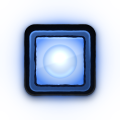
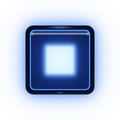
UI: botones nuevos segun las capturas de referencia [skip ci]
Claude-Session: https://claude.ai/code/session_01LmYTuHAKQSU8qhR6nNkVAi

diff --git a/UI_definitiva/generadores/button_gen_ref.py b/UI_definitiva/generadores/button_gen_ref.py
@@ -1,0 +1,75 @@
+# Botones nuevos (segun las capturas de referencia): cuadrado oscuro con marco fino y linea de luz arriba;
+# prendido: marco azul, fondo azul oscuro y centro blanco-celeste con resplandor. Salida: 120x120 (igual que antes).
+import numpy as np
+from PIL import Image
+from scipy.ndimage import gaussian_filter
+S=4; N=120
+def rr(X,Y,hw,hh,r):
+    qx=np.abs(X)-(hw-r); qy=np.abs(Y)-(hh-r)
+    return np.hypot(np.maximum(qx,0),np.maximum(qy,0))+np.minimum(np.maximum(qx,qy),0)-r
+cov=lambda sd: np.clip(0.5-sd*S,0,1)    # sd en unidades de diseno
+def draw(on):
+    n=N*S; yy,xx=np.mgrid[0:n,0:n]; X=(xx-n/2+.5)/S; Y=(yy-n/2+.5)/S
+    rng=np.random.default_rng(5 if on else 4)
+    col=np.zeros((n,n,3)); al=np.zeros((n,n))
+    def over(c,a):
+        nonlocal col,al
+        a=np.clip(a,0,1); c=np.broadcast_to(np.asarray(c,float),(n,n,3))
+        na=a+al*(1-a); col=np.where(na[...,None]>0,(c*a[...,None]+col*al[...,None]*(1-a[...,None]))/np.maximum(na[...,None],1e-6),0); al=na
+    well=rr(X,Y,34.5,34.5,8)
+    mw=cov(well)
+    # resplandor (prendido) y sombra
+    if on:
+        gl=np.clip(gaussian_filter(mw,5*S)*1.5,0,1)*0.36+np.clip(gaussian_filter(mw,13*S)*1.8,0,1)*0.30
+        over([45,115,255],gl*(1-mw))
+    else:
+        over([0,0,0],gaussian_filter(np.roll(mw,int(1.5*S),0),2.5*S)*0.55*(1-mw))
+    noise=gaussian_filter(rng.normal(0,1,(n,n)),0.5*S)*2.2+rng.normal(0,1,(n,n))*1.2
+    spk=(rng.random((n,n))>0.996)*rng.normal(0,14,(n,n))
+    # pozo negro con filo claro abajo
+    wl=(8+noise*0.4)
+    wl=wl+14*np.exp(-((-well-0.8)/0.8)**2)*np.clip(Y/34.5,0,1)
+    over(np.stack([wl]*3,-1)+(np.array([0,6,24.]) if on else 0),mw)
+    # marco fino
+    ring=rr(X,Y,30.3,30.3,5); mrg=cov(ring)-cov(rr(X,Y,29.0,29.0,4.2))
+    over([70,140,255] if on else [58,58,62],mrg*(0.95 if on else 0.9))
+    # cara
+    fc=rr(X,Y,29.0,29.0,4.2); mf=cov(fc)
+    if on:
+        base=np.stack([18+noise*1.2,34+noise*1.8,92+noise*3.4],-1)
+        # mas claro hacia el centro (luz del foco)
+        rad=np.hypot(X,Y)/29; base=base+np.exp(-(rad/0.85)**2)[...,None]*np.array([6,22,52.])
+    else:
+        base=np.stack([21+noise*0.9,21+noise*0.9,23+noise*0.9],-1)
+        base=base+14*np.exp(-((Y+29)/3.0)**2)[...,None]*0.5
+    base=base+spk[...,None]*(1 if not on else 1.4)
+    over(np.clip(base,0,255),mf)
+    # linea de luz arriba (con puntitas mas brillantes en las esquinas)
+    ly=-26.2; xw=np.clip((29.5-np.abs(X))/1.5,0,1)
+    line=np.exp(-((Y-ly)/0.75)**2)*xw
+    ends=np.exp(-((np.abs(X)-28.2)/1.2)**2)*np.exp(-((Y-ly)/1.3)**2)
+    band=np.exp(-((Y-(ly-2.2))/2.2)**2)*xw*0.35        # banda tenue arriba de la linea
+    if on:
+        over([205,208,215],line*0.75+ends*0.5); over([120,170,255],band*0.5)
+    else:
+        over([170,170,174],line*0.85+ends*0.5); over([90,90,94],band*0.5)
+    over([0,0,0],mf*0)   # (sin efecto, mantiene el orden)
+    if on:
+        # centro blanco-celeste con halo
+        sq=rr(X,Y,16.2,16.2,3.4)
+        halo=np.clip(gaussian_filter(cov(rr(X,Y,15,15,3.4)),4.2*S),0,1)
+        over([70,130,255],halo*0.9*mf)
+        over([140,200,255],gaussian_filter(cov(sq),1.6*S)*0.85*mf)
+        core=cov(rr(X,Y,13.8,13.8,3.0)); core=gaussian_filter(core,0.9*S)
+        cc=np.stack([228+10*np.clip(1-np.hypot(X,Y)/18,0,1)]*1+[246+0*X]+[255+0*X],-1).astype(float)
+        cc[...,0]=np.clip(215+22*np.clip(1-np.hypot(X,Y)/16,0,1)+noise*0.8,0,255); cc[...,1]=np.clip(238+14*np.clip(1-np.hypot(X,Y)/16,0,1)+noise*0.5,0,255); cc[...,2]=255
+        over(cc,core*mf)
+        # arco azul brillante arriba del marco y marquita abajo
+        over([120,180,255],np.exp(-(((Y+32.6)/1.0)**2+(X/9.0)**2))*0.6*cov(well))
+        over([90,150,255],np.exp(-(((Y-32.6)/0.8)**2+(X/2.5)**2))*0.5*cov(well))
+    img=np.dstack([col,al*255]).clip(0,255).astype('uint8')
+    return Image.fromarray(img,'RGBA').resize((N,N),Image.LANCZOS)
+if __name__=='__main__':
+    off=draw(False); on=draw(True); off.save('btn_off.png'); on.save('btn_on.png')
+    bg=Image.new('RGBA',(260,130),(36,36,38,255)); bg.alpha_composite(off,(5,5)); bg.alpha_composite(on,(135,5))
+    bg.resize((780,390),Image.LANCZOS).save('btn_prev.png')
